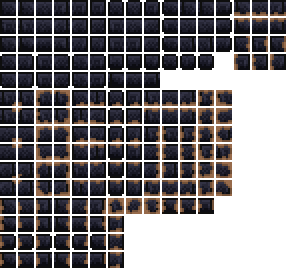
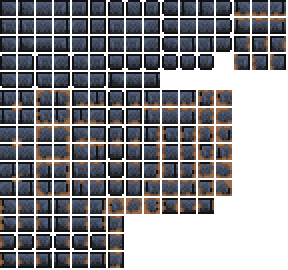
Tile Item Sprites
Added item sprites to tiles

diff --git a/Content/Tiles/Blocks/AssecstoneBrickTile.cs b/Content/Tiles/Blocks/AssecstoneBrickTile.cs
@@ -14,7 +14,7 @@ public class AssecstoneBrickTile : ModdedBlockTile
     public override int OnMineDustType => ModContent.DustType<AssecstoneDust>();
     public override ushort VanillaFallbackTile => TileID.EbonstoneBrick;
     public override SoundStyle TileMineSound => SoundID.Tink;
-    public override Color MapColor => new Color(50, 50, 68);
+    public override Color MapColor => new Color(69, 79, 101);
     public override int WaterfallStyleID => WaterStyleID.Corrupt;
     public override void CustomSetStaticDefaults()
     {

diff --git a/Content/Items/Tiles/Walls/HardenedAssecsandWall.cs b/Content/Items/Tiles/Walls/HardenedAssecsandWall.cs
@@ -4,7 +4,7 @@ using TerrariaParadox.Content.Tiles.Walls;
 
 namespace TerrariaParadox.Content.Items.Tiles.Walls;
 
-public class AssecsandstoneWall : ModdedWallItem
+public class HardenedAssecsandWall : ModdedWallItem
 {
-    public override int WallType => ModContent.WallType<AssecsandstoneWallTile>();
+    public override int WallType => ModContent.WallType<HardenedAssecsandWallTile>();
 }

diff --git a/Content/Items/Tiles/Walls/AssecstoneBrickWall.cs b/Content/Items/Tiles/Walls/AssecstoneBrickWall.cs
@@ -4,7 +4,7 @@ using TerrariaParadox.Content.Tiles.Walls;
 
 namespace TerrariaParadox.Content.Items.Tiles.Walls;
 
-public class AssecsandstoneWall : ModdedWallItem
+public class AssecstoneBrickWall : ModdedWallItem
 {
-    public override int WallType => ModContent.WallType<AssecsandstoneWallTile>();
+    public override int WallType => ModContent.WallType<AssecstoneBrickWallTile>();
 }

diff --git a/Content/Items/Tiles/Walls/AssecstoneWall.cs b/Content/Items/Tiles/Walls/AssecstoneWall.cs
@@ -4,7 +4,7 @@ using TerrariaParadox.Content.Tiles.Walls;
 
 namespace TerrariaParadox.Content.Items.Tiles.Walls;
 
-public class AssecsandstoneWall : ModdedWallItem
+public class AssecstoneWall : ModdedWallItem
 {
-    public override int WallType => ModContent.WallType<AssecsandstoneWallTile>();
+    public override int WallType => ModContent.WallType<AssecstoneWallTile>();
 }

diff --git a/Content/Tiles/Walls/AssecstoneBrickWallTile.cs b/Content/Tiles/Walls/AssecstoneBrickWallTile.cs
@@ -9,5 +9,5 @@ public class AssecstoneBrickWallTile : ModdedWallTile
 {
     public override int OnMineDustType => ModContent.DustType<AssecstoneDust>();
     public override ushort VanillaFallbackTile => WallID.EbonstoneBrick;
-    public override Color MapColor => new Color(23, 23, 33);
+    public override Color MapColor => new Color(42, 49, 66);
 }

diff --git a/Content/Items/Tiles/Blocks/HardenedAssecsandBlock.cs b/Content/Items/Tiles/Blocks/HardenedAssecsandBlock.cs
@@ -5,6 +5,5 @@ namespace TerrariaParadox.Content.Items.Tiles.Blocks;
 
 public class HardenedAssecsandBlock : ModdedBlockItem
 {
-    public override string Texture => "TerrariaParadox/Content/Items/Tiles/Blocks/AssecstoneBlock";
     public override int TileType => ModContent.TileType<HardenedAssecsandBlockTile>();
 }

diff --git a/Content/Items/Tiles/Blocks/AssecsandstoneBlock.cs b/Content/Items/Tiles/Blocks/AssecsandstoneBlock.cs
@@ -5,6 +5,5 @@ namespace TerrariaParadox.Content.Items.Tiles.Blocks;
 
 public class AssecsandstoneBlock : ModdedBlockItem
 {
-    public override string Texture => "TerrariaParadox/Content/Items/Tiles/Blocks/AssecstoneBlock";
     public override int TileType => ModContent.TileType<AssecsandstoneBlockTile>();
 }

diff --git a/Content/Items/Tiles/Blocks/AssecstoneBrick.cs b/Content/Items/Tiles/Blocks/AssecstoneBrick.cs
@@ -5,6 +5,5 @@ namespace TerrariaParadox.Content.Items.Tiles.Blocks;
 
 public class AssecstoneBrick : ModdedBlockItem
 {
-    public override string Texture => "TerrariaParadox/Content/Items/Tiles/Blocks/AssecstoneBlock";
     public override int TileType => ModContent.TileType<AssecstoneBrickTile>();
 }

diff --git a/Content/Items/Tiles/Blocks/AssecsandBlock.cs b/Content/Items/Tiles/Blocks/AssecsandBlock.cs
@@ -5,6 +5,5 @@ namespace TerrariaParadox.Content.Items.Tiles.Blocks;
 
 public class AssecsandBlock : ModdedBlockItem
 {
-    public override string Texture => "TerrariaParadox/Content/Items/Tiles/Blocks/AssecstoneBlock";
     public override int TileType => ModContent.TileType<AssecsandBlockTile>();
 }

diff --git a/Content/Items/Tiles/Blocks/MurkyIceBlock.cs b/Content/Items/Tiles/Blocks/MurkyIceBlock.cs
@@ -5,6 +5,5 @@ namespace TerrariaParadox.Content.Items.Tiles.Blocks;
 
 public class MurkyIceBlock : ModdedBlockItem
 {
-    public override string Texture => "TerrariaParadox/Content/Items/Tiles/Blocks/AssecstoneBlock";
     public override int TileType => ModContent.TileType<MurkyIceBlockTile>();
 }
